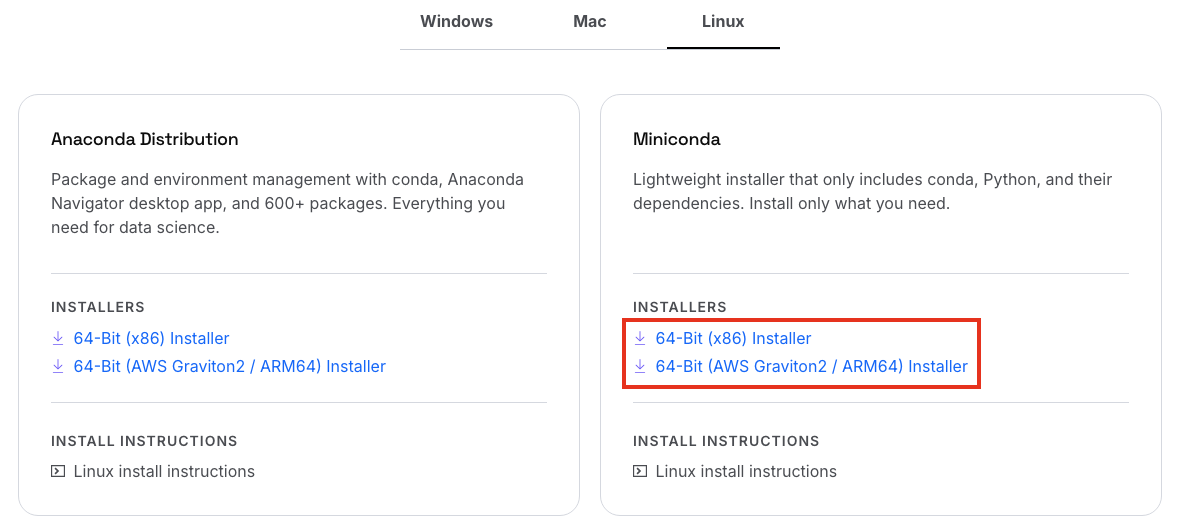
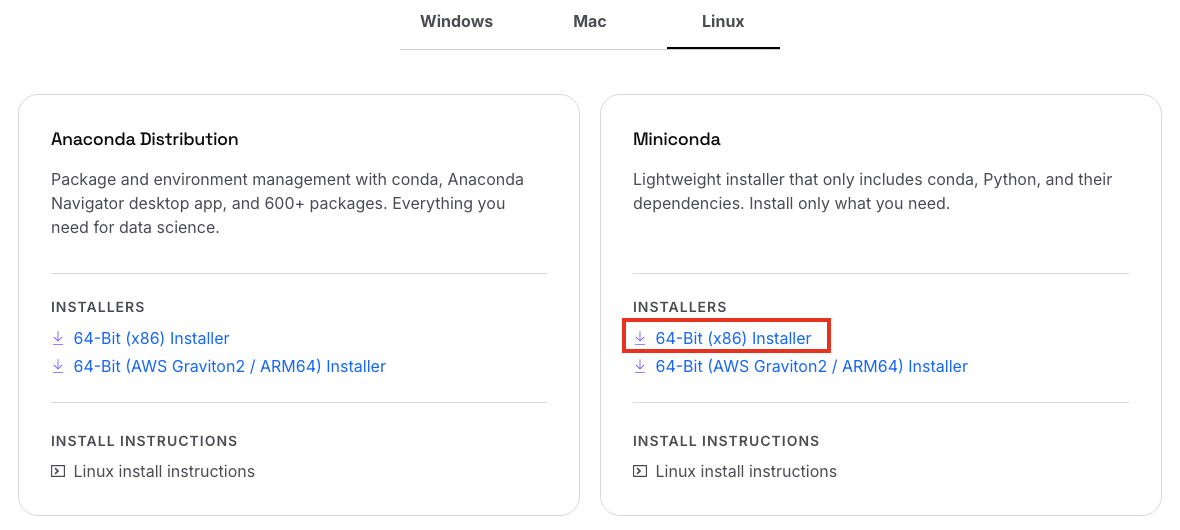
Simplify Linux install steps to match Windows

Changed region(s): [[0.5186, 0.634, 0.8237, 0.7547], [0.7017, 0.5736, 0.8542, 0.7245]]

diff --git a/docs/docs/installation.md b/docs/docs/installation.md
@@ -81,16 +81,14 @@ Summary: CyFi is a Python package to estimate cyanobacteria density in small, in
 
 ### Install python
 
-1. Look up your computer's architecture by running `lscpu` in your terminal and looking at "architecture"
-
-2. [Download the Miniconda installer](https://www.anaconda.com/download/success) by clicking on "64-Bit (x86) Installer" under Miniconda, or "64-Bit (AWS Graviton2 / ARM64) Installer" if your architecture is aarch64
+1. [Download the Miniconda installer](https://www.anaconda.com/download/success) by clicking on "64-Bit (x86) Installer" under Miniconda
 ![Linux Miniconda installer links](images/linux.png)
 
-3. In your terminal, run `bash filename`, replacing `filename` with the path to your installer.
+2. In your terminal, run `bash filename`, replacing `filename` with the path to your installer.
 
-4. Follow the prompts on the installer screens. If you are unsure about any setting, accept the defaults.
+3. Follow the prompts on the installer screens. If you are unsure about any setting, accept the defaults.
 
-5. To make the changes take effect, close and then re-open your terminal window.
+4. To make the changes take effect, close and then re-open your terminal window.
 
 
 ### Install CyFi
